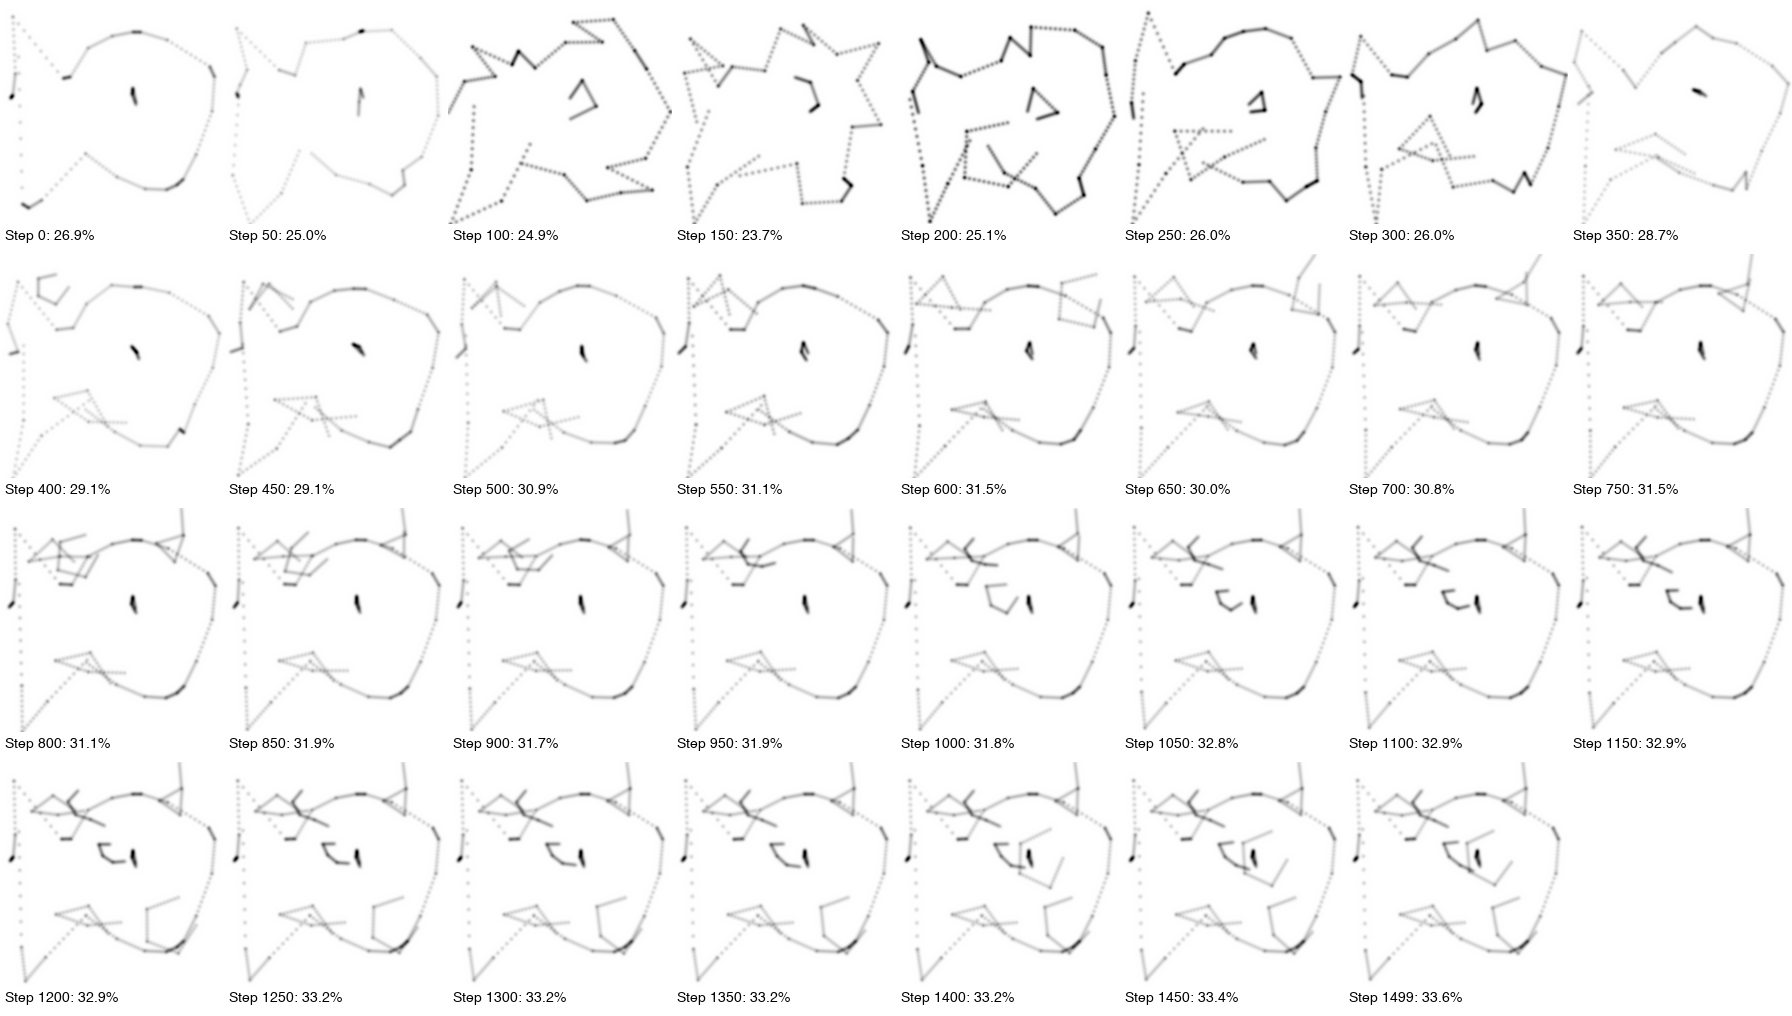
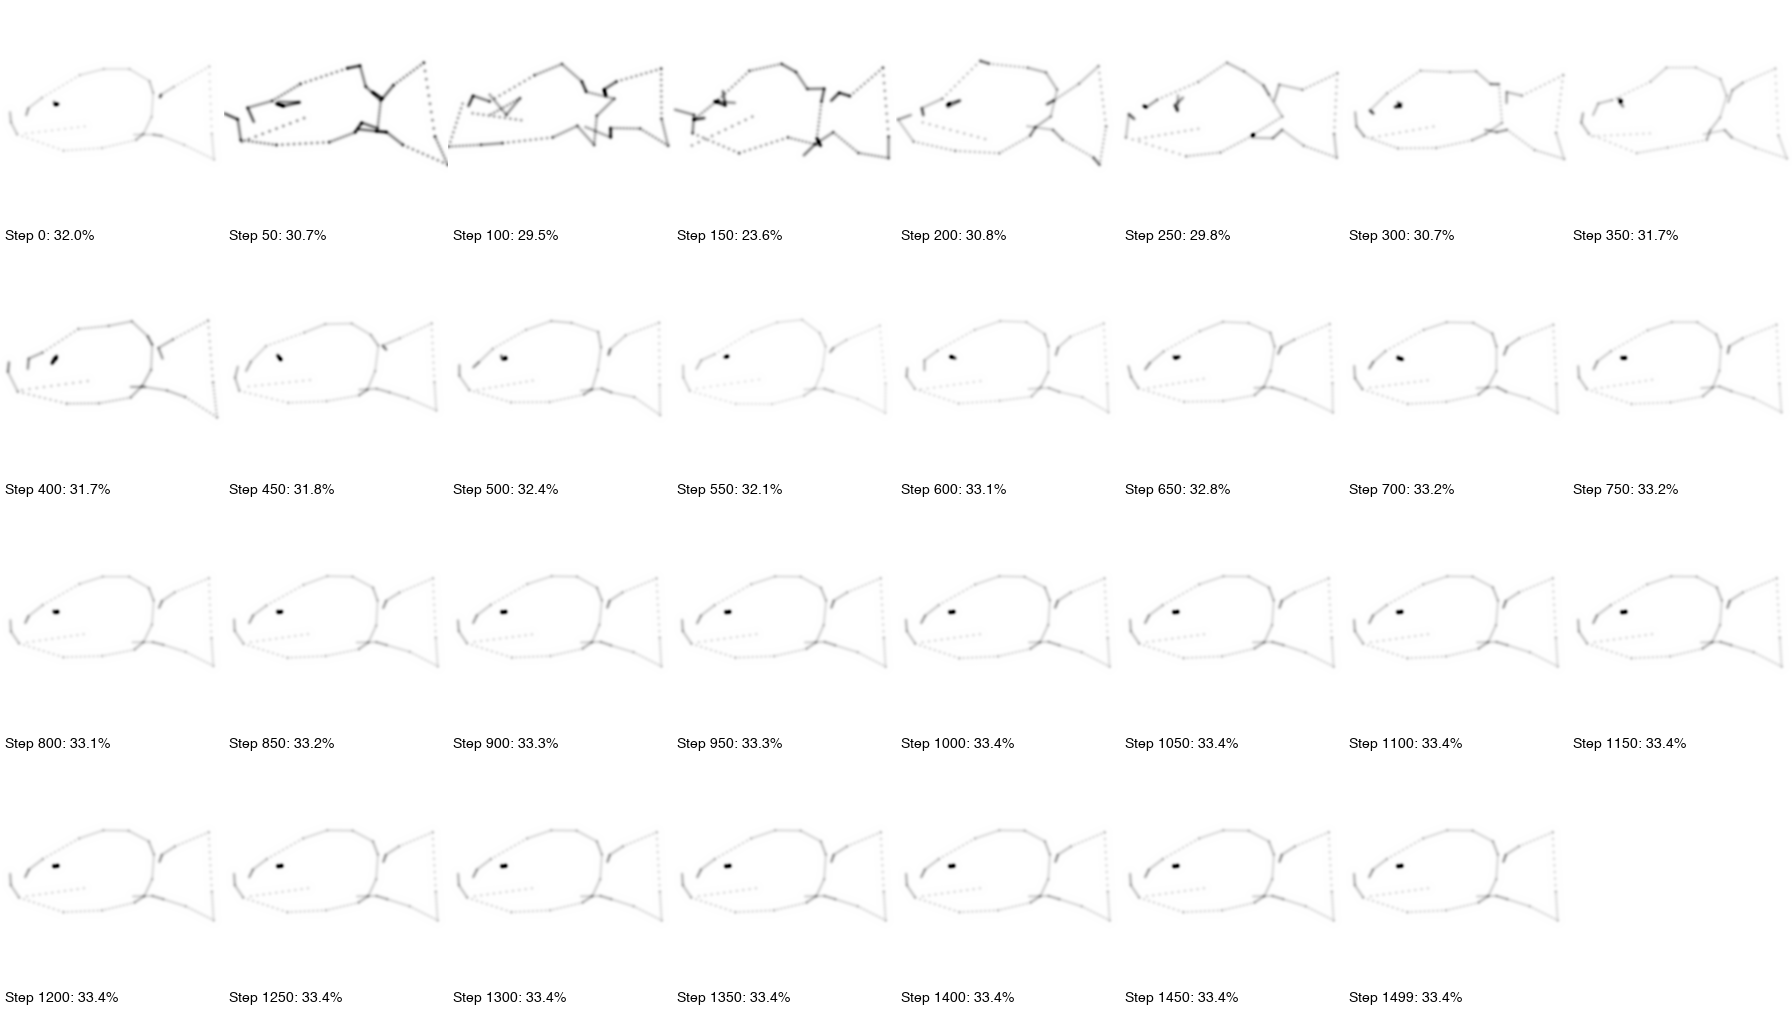
exp: Emphasize CLIP text embedding, reduce regularization
Configuration changes to prioritize semantic (text) loss:
- Increase semantic weight: 1.0 → 3.0 (3x emphasis on text)
- Reduce stroke regularization: 0.05 → 0.01
- Reduce TV loss: 0.001 → 0.0005
- Increase min_lr: 0.05 → 0.5 (less decay, stronger updates)

Simplify optimization settings:
- Disable reference image guidance (pure text mode)
- Disable stroke addition (preserve original strokes)
- Lower original_weight: 0.3 → 0.1 (more freedom to change)
- Use constant original_weight schedule

Updated output files from fish refinement experiments.

diff --git a/tests/test_long_optimization.py b/tests/test_long_optimization.py
@@ -455,10 +455,11 @@ def run_long_optimization(
         )
     
     # Build loss weights
+    # SEMANTIC is the CLIP text embedding loss - increase to emphasize text more
     loss_weights = {
-        "semantic": 0.5 if use_reference_image else 1.0,  # Reduce semantic if using reference
-        "stroke": 0.05,
-        "tv": 0.001,
+        "semantic": 3.0,  # HIGH weight for CLIP text guidance (was 1.0)
+        "stroke": 0.01,   # Lower regularization to allow more freedom
+        "tv": 0.0005,     # Lower TV to allow more changes
     }
     if use_exemplar_loss or use_photo_exemplars:
         # Use photo weight if using photos, otherwise sketch weight
@@ -473,7 +474,7 @@ def run_long_optimization(
         lr=lr,
         lr_schedule="warmup_cosine",
         warmup_steps=min(100, steps // 10),
-        min_lr=0.05,
+        min_lr=0.5,  # Higher min LR - less decay (was 0.05)
         noise_scale=noise_scale,
         noise_decay=0.995,
         loss_weights=loss_weights,
@@ -656,7 +657,7 @@ def main():
         init_strokes = quickdraw_to_stroke_params(drawing, device=device)
         
         # Choose target
-        target_label = "A perfect sketch of a fish"  # Refine fish into a better fish
+        target_label = "a perfect sketch of a fish"  
     
     print(f"\nSource: {source_label}")
     print(f"Target: {target_label}")
@@ -697,14 +698,14 @@ def main():
         lr=2.5 if is_refinement else 3.0,            # Higher LR for faster initial progress
         use_multi_prompt=True,                        # Always use multi-prompt now!
         refinement_mode=is_refinement,                # Preserve original when refining
-        # SCHEDULED ORIGINAL WEIGHT: Start low (more exploration), end high (lock structure)
-        original_weight=0.3 if is_refinement else 0,  # Reduced since reference loss helps
-        original_weight_schedule="cosine_up" if is_refinement else "constant",
-        original_weight_start=0.02,                   # Start very low to allow exploration!
-        # REFERENCE IMAGE: Guide toward a perfect sketch (inverse CLIPasso)
-        use_reference_image=has_reference_image and is_refinement,
-        reference_image_path=str(reference_image_path) if has_reference_image else None,
-        reference_image_weight=2.0,                   # Strong pull toward perfect sketch
+        # ORIGINAL WEIGHT: Lower = more freedom for CLIP text to change the sketch
+        original_weight=0.1 if is_refinement else 0,  # LOW - let text dominate!
+        original_weight_schedule="constant",          # Keep it low throughout
+        original_weight_start=0.05,                   # Start very low
+        # REFERENCE IMAGE: Disabled to let text dominate
+        use_reference_image=False,                    # OFF - pure text guidance
+        reference_image_path=None,
+        reference_image_weight=0.0,                   # Unused
         # PHOTO EXEMPLARS: Guide toward real photos (rich semantics)
         use_photo_exemplars=has_photo_exemplars,
         photo_exemplar_dir=str(photo_dir) if has_photo_exemplars else None,
@@ -715,12 +716,12 @@ def main():
         n_exemplars=0,
         exemplar_weight=0.0,
         exemplar_mode="mean",
-        # STROKE ADDITION: Allow adding strokes during optimization
-        allow_stroke_addition=True,     # Enable adding strokes!
-        stroke_add_interval=200,        # Add a stroke every 200 steps
-        max_strokes=12,                 # Cap at 12 strokes total
-        new_stroke_points=5,            # 5 control points per new stroke
-        stroke_init_mode="random",      # Random placement of new strokes
+        # STROKE ADDITION: Disabled - keep original stroke count
+        allow_stroke_addition=False,    # No new strokes
+        stroke_add_interval=200,
+        max_strokes=12,
+        new_stroke_points=5,
+        stroke_init_mode="random"
     )
     
     # Create visualizations
